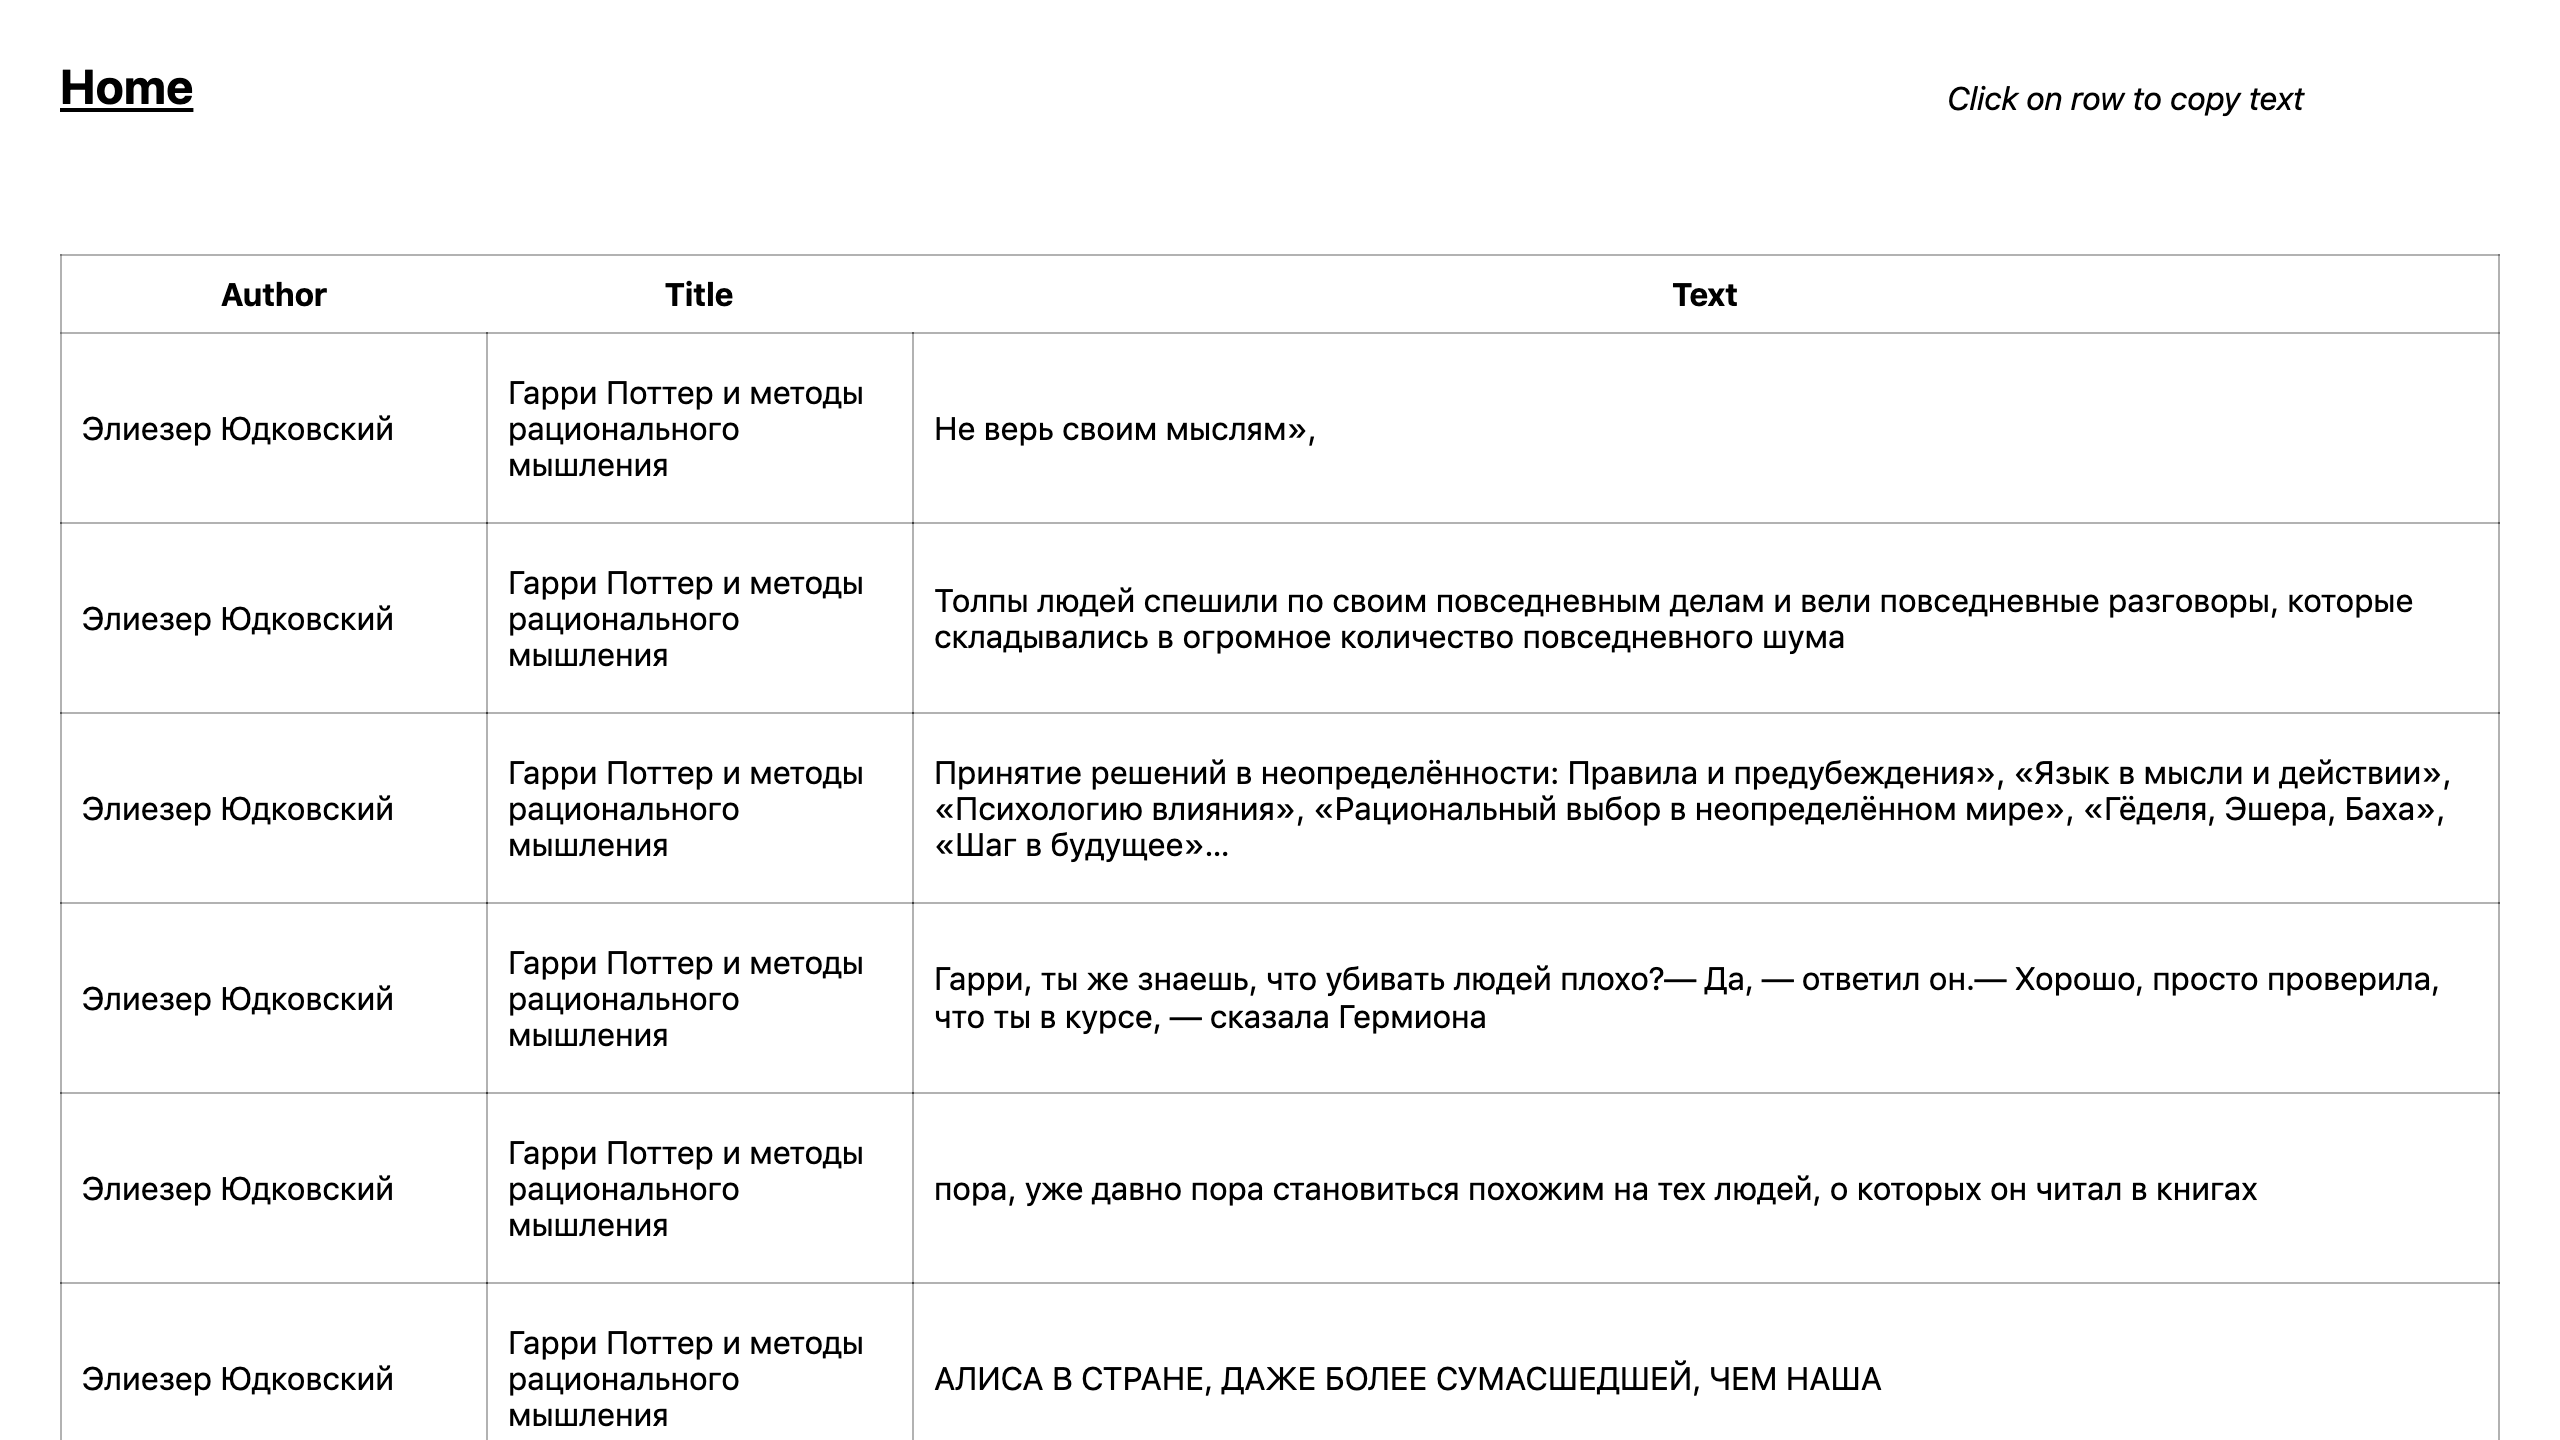
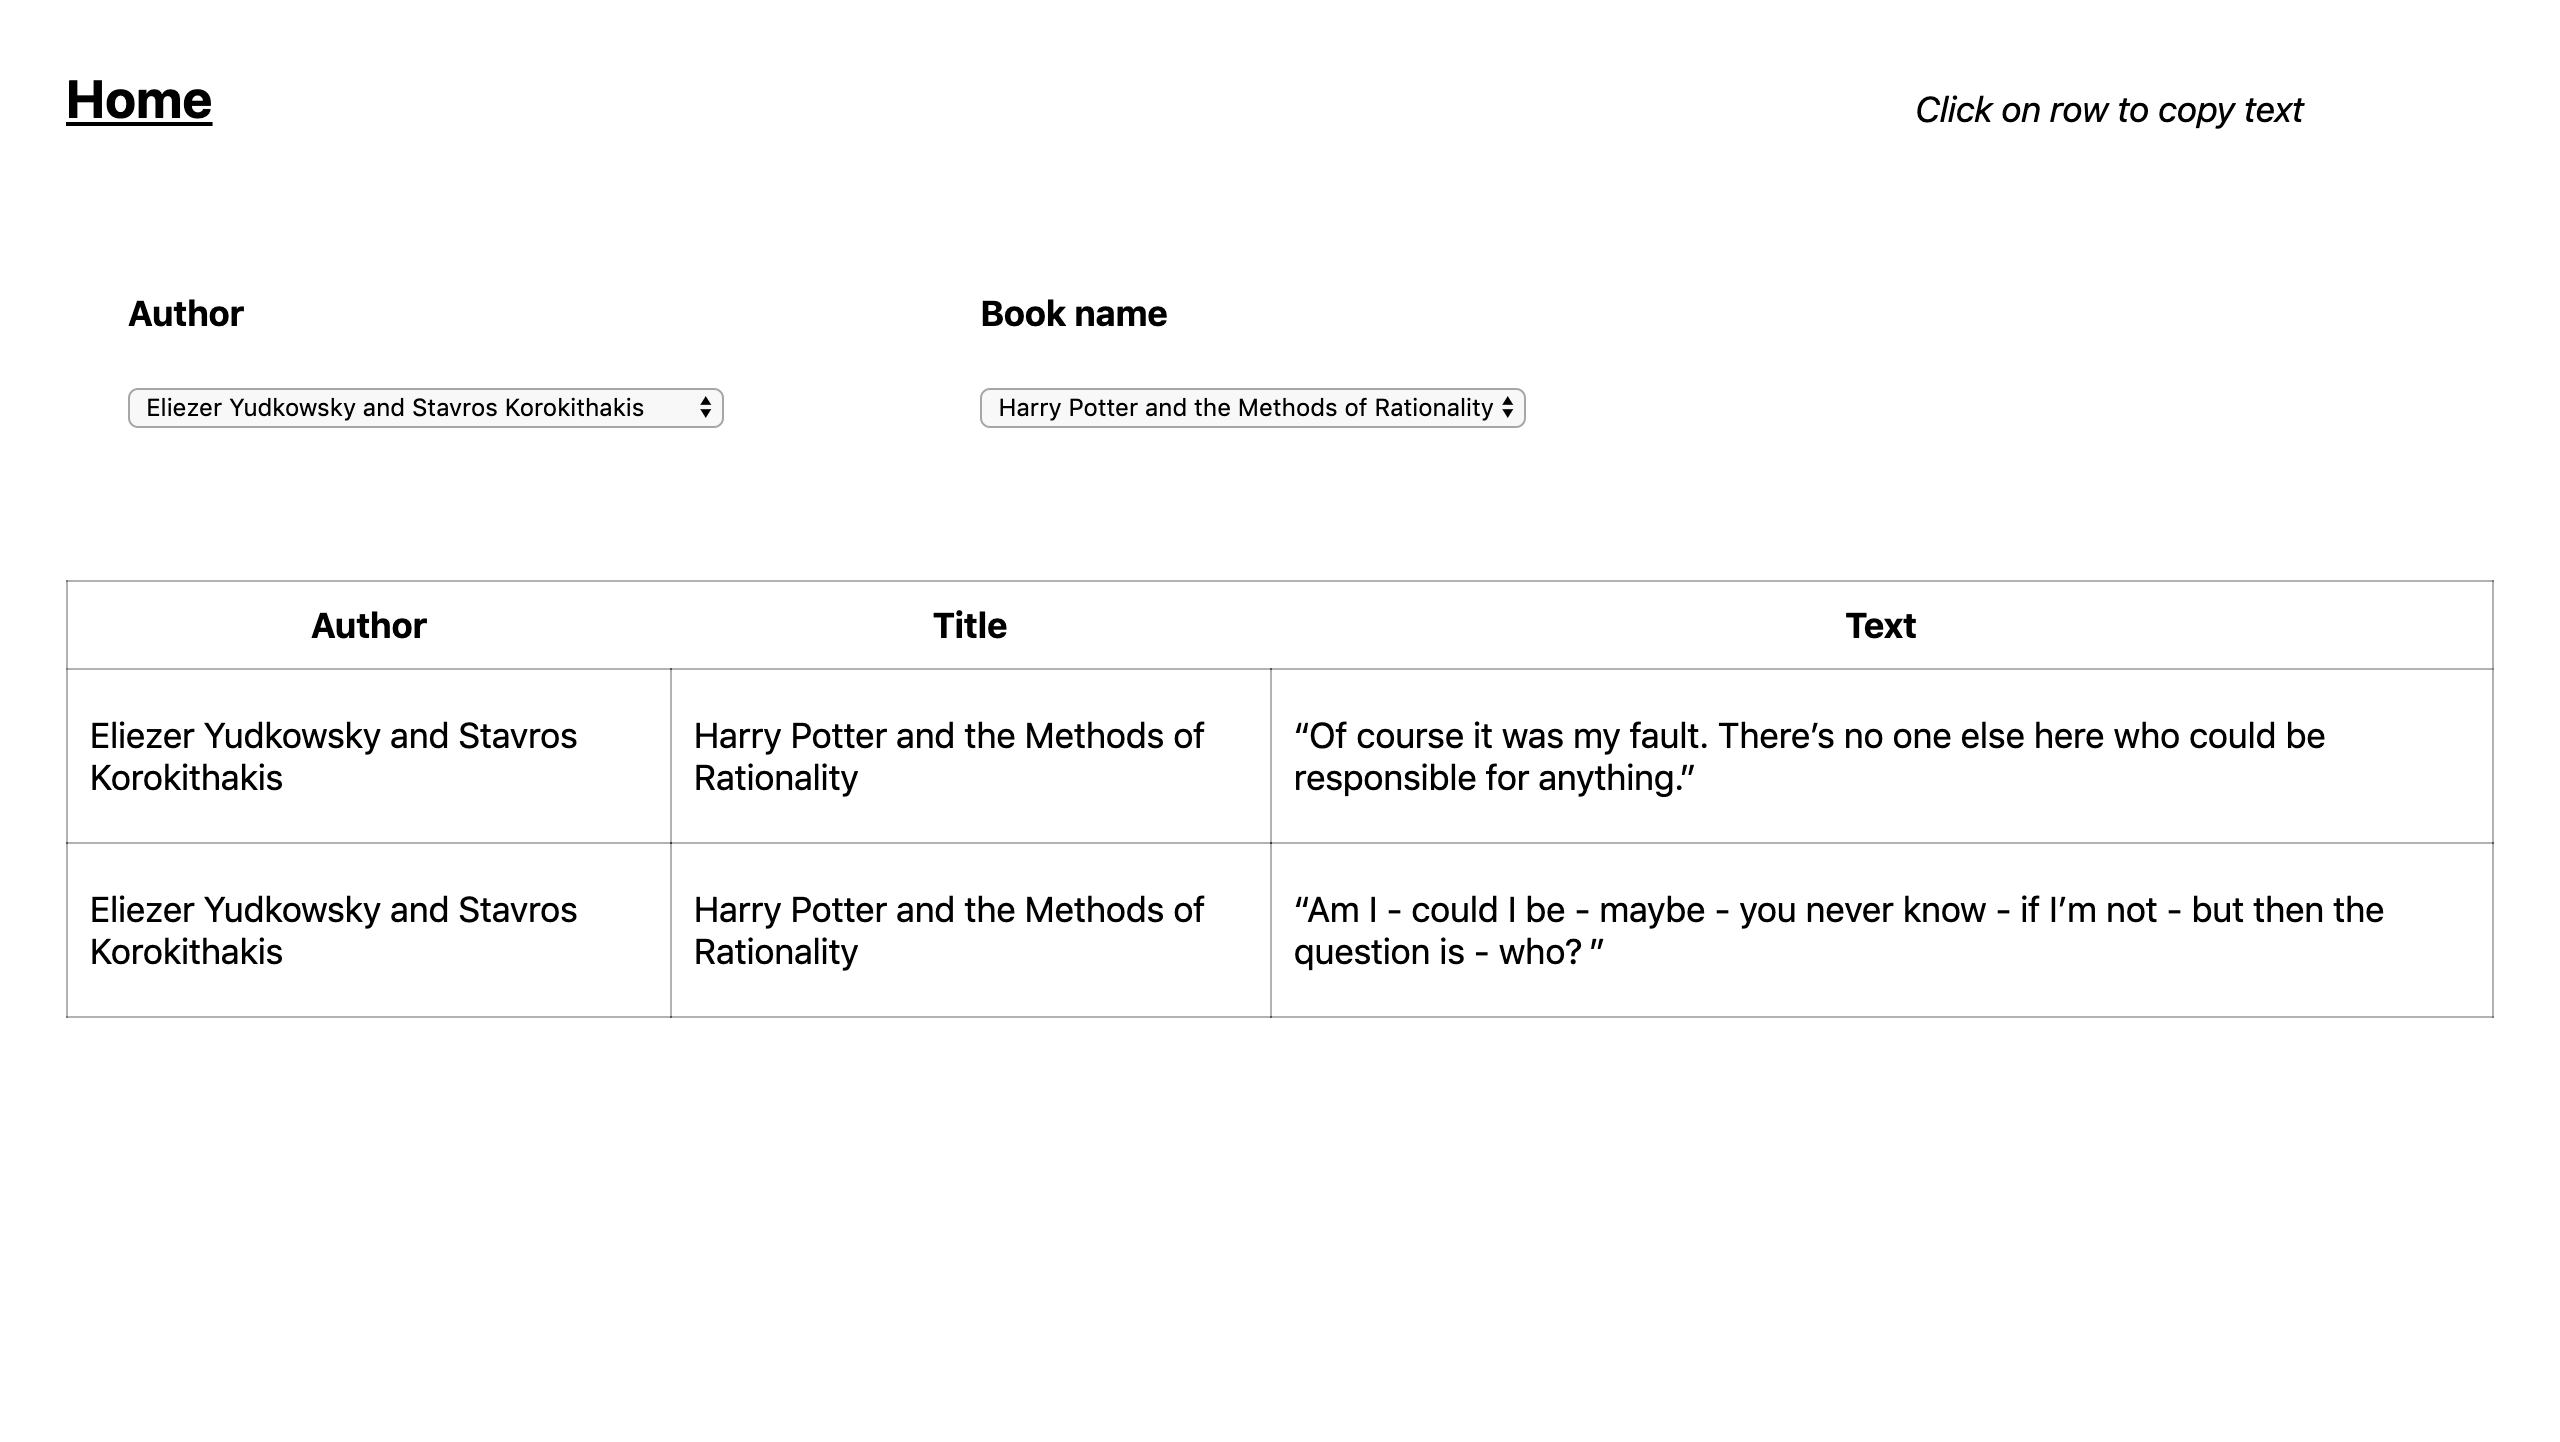
feat: sort highlights by author and book name

diff --git a/server/routes.js b/server/routes.js
@@ -4,7 +4,12 @@ const { jsonFromDb } = require('./helpers')
 const dbPath = './server/db/books.db'
 const router = express.Router()
 
+// state
 let list = []
+let filteredHighlights = []
+let selectedAuthor = '-'
+let selectedBook = '-'
+let isAuthorSelected = false
 
 // render ejs pages
 router.get('/', (_, res) => {
@@ -12,7 +17,25 @@ router.get('/', (_, res) => {
 })
 
 router.get('/list', (_, res) => {
-  res.render('../public/list', { list })
+  const allAuthors = list.map((item) => item.Authors)
+  const authors = ['-', ...new Set(allAuthors)].sort()
+
+  const bookList = new Set(
+    list
+      .filter((item) => item.Authors === selectedAuthor)
+      .map((item) => item.Title)
+  )
+
+  books = isAuthorSelected ? ['-', ...bookList].sort() : ['-']
+
+  res.render('../public/list', {
+    list: filteredHighlights,
+    authors,
+    books,
+    selectedAuthor,
+    selectedBook,
+    isAuthorSelected,
+  })
 })
 
 // handle api requests
@@ -22,17 +45,50 @@ router.post('/upload', async (req, res) => {
   await file.mv(dbPath)
   const json = await jsonFromDb(dbPath)
 
-  list = JSON.parse(json)
+  filteredHighlights = list = JSON.parse(json)
 
   res.status(200).send('OK')
 })
 
-router.get('/get-list', (_, res) => {
-  res.status(200).json(list)
+router.get('/select_author', (req, res) => {
+  const { author } = req.query
+
+  if (author !== '-') {
+    isAuthorSelected = true
+    selectedAuthor = author
+    selectedBook = '-'
+
+    filteredHighlights = list.filter((item) => item.Authors === author)
+  } else {
+    isAuthorSelected = false
+    selectedAuthor = '-'
+    filteredHighlights = list
+  }
+
+  res.status(200).send('OK')
 })
 
+router.get('/select_book', (req, res) => {
+  const { book } = req.query
+
+  if (book !== '-') {
+    filteredHighlights = list.filter((item) => item.Title === book)
+    selectedBook = book
+  } else {
+    filteredHighlights = list.filter((item) => item.Authors === selectedAuthor)
+    selectedBook = '-'
+  }
+
+  res.status(200).send('OK')
+})
+
+// clear state
 router.post('/clear', (_, res) => {
   list = []
+  selectedBook = '-'
+  selectedAuthor = '-'
+  isAuthorSelected = false
+
   res.status(200).send('OK')
 })
 

diff --git a/src/controllers/filters_controller.js b/src/controllers/filters_controller.js
@@ -1,0 +1,22 @@
+import { Controller } from 'stimulus'
+
+export default class extends Controller {
+  _select(id, path, param) {
+    const e = document.getElementById(id)
+    const { value } = e.options[e.selectedIndex]
+
+    const url = `http://localhost:9000/${path}?${param}=${value}`
+
+    fetch(url).then(() => {
+      location.reload() // to update highlights list according to filters
+    })
+  }
+
+  selectAuthor() {
+    this._select('author', 'select_author', 'author')
+  }
+
+  selectBook() {
+    this._select('book', 'select_book', 'book')
+  }
+}

diff --git a/public/main.css b/public/main.css
@@ -78,3 +78,13 @@ tr, td {
   padding-top: 3vh;
   font-style: italic;
 }
+
+#filters {
+  display: flex;
+  
+  margin: 5vh 0 3vh 0;
+}
+
+#filters div {
+  margin: 0 5vw;
+}

diff --git a/readme.md b/readme.md
@@ -10,7 +10,7 @@ Export highlights from your Pocketbook.
 
 - [x] See the list of highlights.
 - [x] Copy highlight by click.
-- [ ] Sort highlights by author and book name.
+- [x] Sort highlights by author and book name.
 
 ### Screenshots
 
